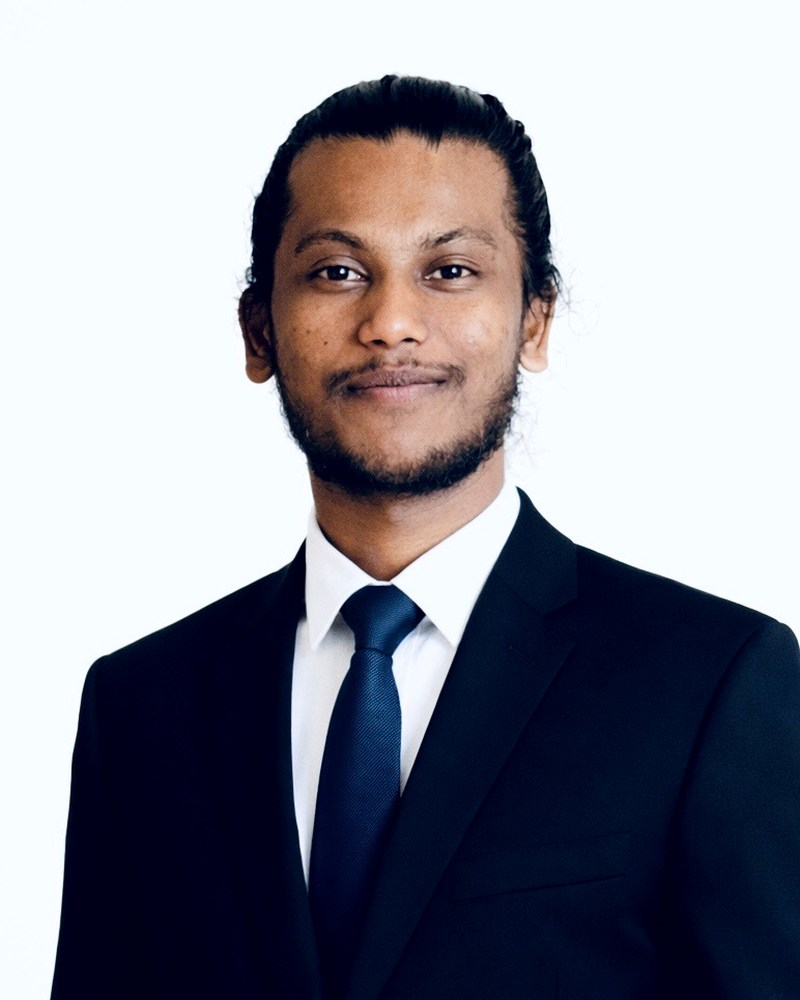
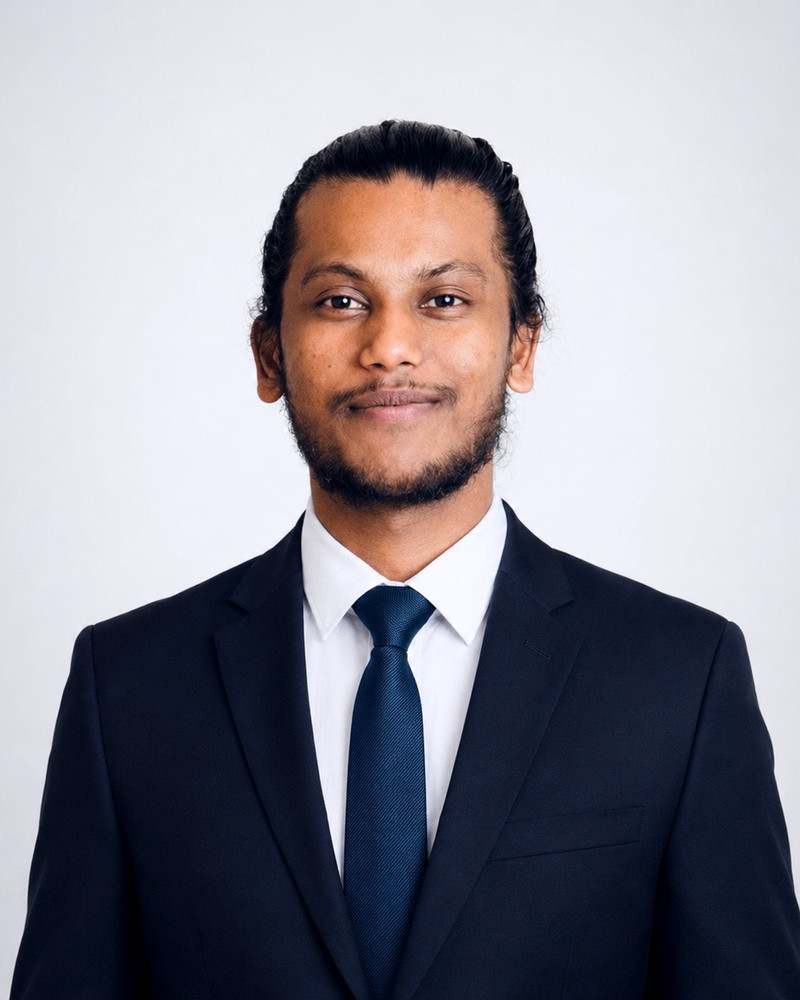
Add thumbnail image for PaperSMS project

diff --git a/js/renderer.js b/js/renderer.js
@@ -108,8 +108,8 @@
     $('[property="og:title"], [name="twitter:title"]').attr('content', site.title || profile.name || '');
     $('[property="og:description"], [name="twitter:description"]').attr('content', site.description || profile.shortSummary || '');
     $('[property="og:image"], [name="twitter:image"]').attr('content', profile.profileImage?.src || '');
-    $('link[rel="canonical"]').attr('href', site.canonicalUrl || 'https://your-domain.example');
-    $('[property="og:url"]').attr('content', site.canonicalUrl || 'https://your-domain.example');
+    $('link[rel="canonical"]').attr('href', site.canonicalUrl || 'https://madushansandaru1.github.io');
+    $('[property="og:url"]').attr('content', site.canonicalUrl || 'https://madushansandaru1.github.io');
     $('[data-brand]').html(`<img class="brand-logo" src="assets/images/brand/ms-logo.svg" alt="" aria-hidden="true"><span>${esc(profile.name || 'Portfolio')}</span>`);
     const schema = { '@context': 'https://schema.org', '@type': 'Person', name: profile.name, jobTitle: profile.title, image: profile.profileImage?.src, url: site.canonicalUrl, address: { '@type': 'PostalAddress', addressCountry: profile.location || 'Sri Lanka' }, sameAs: (data.socialLinks || []).filter((item) => hasValue(item.url) && !item.url.startsWith('mailto:')).map((item) => item.url) };
     $('head').append(`<script type="application/ld+json">${JSON.stringify(schema)}<\/script>`);

diff --git a/index.html b/index.html
@@ -12,13 +12,13 @@
     <meta property="og:type" content="website">
     <meta property="og:title" content="Senior Software Engineer Portfolio">
     <meta property="og:description" content="Senior Software Engineer and Integration Engineer portfolio">
-    <meta property="og:image" content="assets/images/profile/profile-photo.jpg">
-    <meta property="og:url" content="https://your-domain.example">
+    <meta property="og:image" content="assets/images/profile/madhushan-sandaruwan-profile.jpg">
+    <meta property="og:url" content="https://madushansandaru1.github.io">
     <meta name="twitter:card" content="summary_large_image">
     <meta name="twitter:title" content="Senior Software Engineer Portfolio">
     <meta name="twitter:description" content="Senior Software Engineer and Integration Engineer portfolio">
-    <meta name="twitter:image" content="assets/images/profile/profile-photo.jpg">
-    <link rel="canonical" href="https://your-domain.example">
+    <meta name="twitter:image" content="assets/images/profile/madhushan-sandaruwan-profile.jpg">
+    <link rel="canonical" href="https://madushansandaru1.github.io">
     <link rel="stylesheet" href="css/main.css">
   </head>
   <body>

diff --git a/scss/components.scss b/scss/components.scss
@@ -173,7 +173,6 @@ p, li { color: var(--muted); line-height: 1.62; }
   grid-template-columns: repeat(3, minmax(0, 1fr));
   gap: 16px;
 }
-.project-grid { grid-template-columns: repeat(2, minmax(0, 1fr)); }
 .project-grid { grid-template-columns: repeat(3, minmax(0, 1fr)); }
 .filter-bar { margin-bottom: 24px; }
 .project-card, .blog-card { position: relative; padding: 0; overflow: visible; }

diff --git a/README.md b/README.md
@@ -65,7 +65,7 @@ Example:
 
 ```json
 "profileImage": {
-  "src": "assets/images/profile/profile-photo.jpg",
+  "src": "assets/images/profile/madhushan-sandaruwan-profile.jpg",
   "alt": "Professional profile photo of Your Name",
   "fallback": "assets/images/profile/default-avatar.svg"
 }
